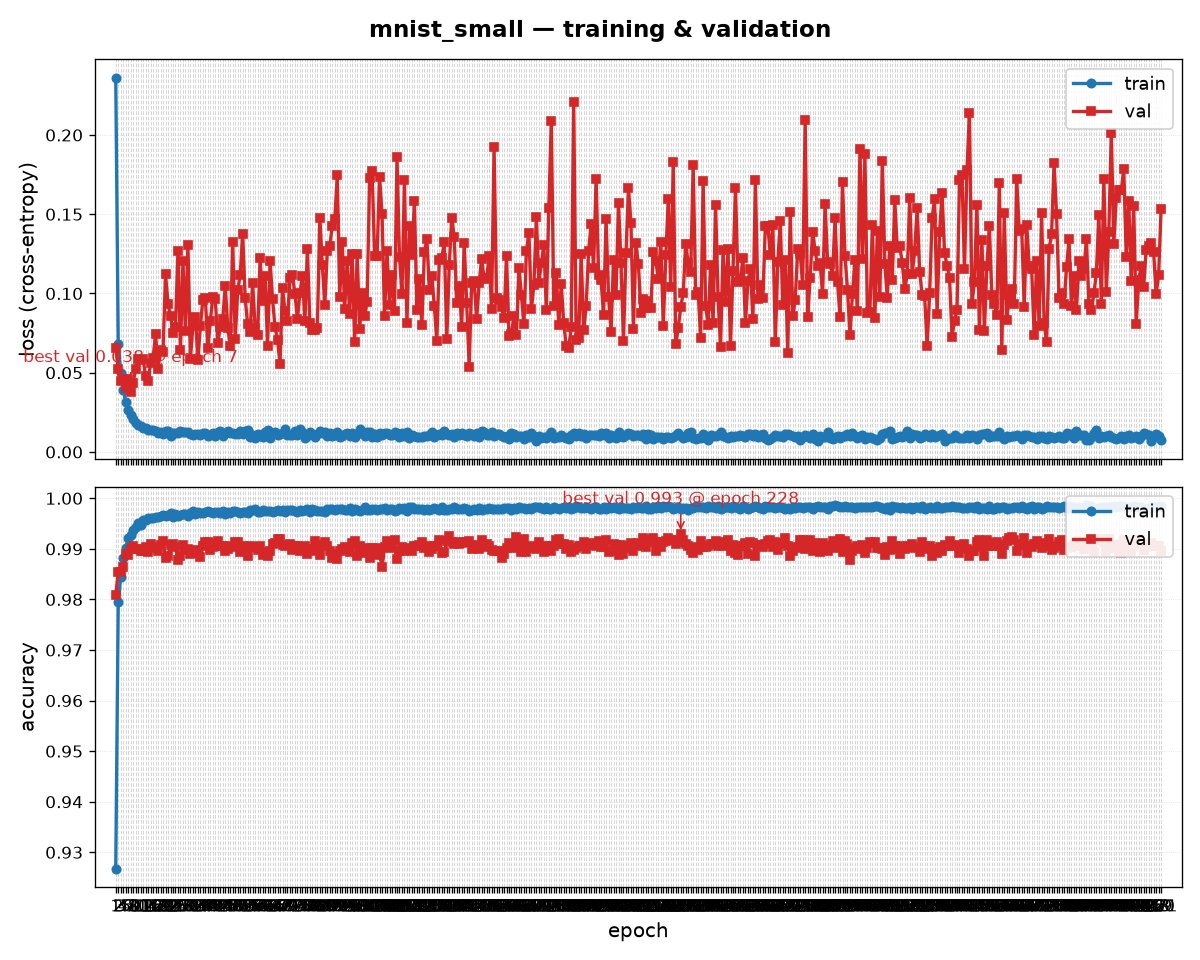
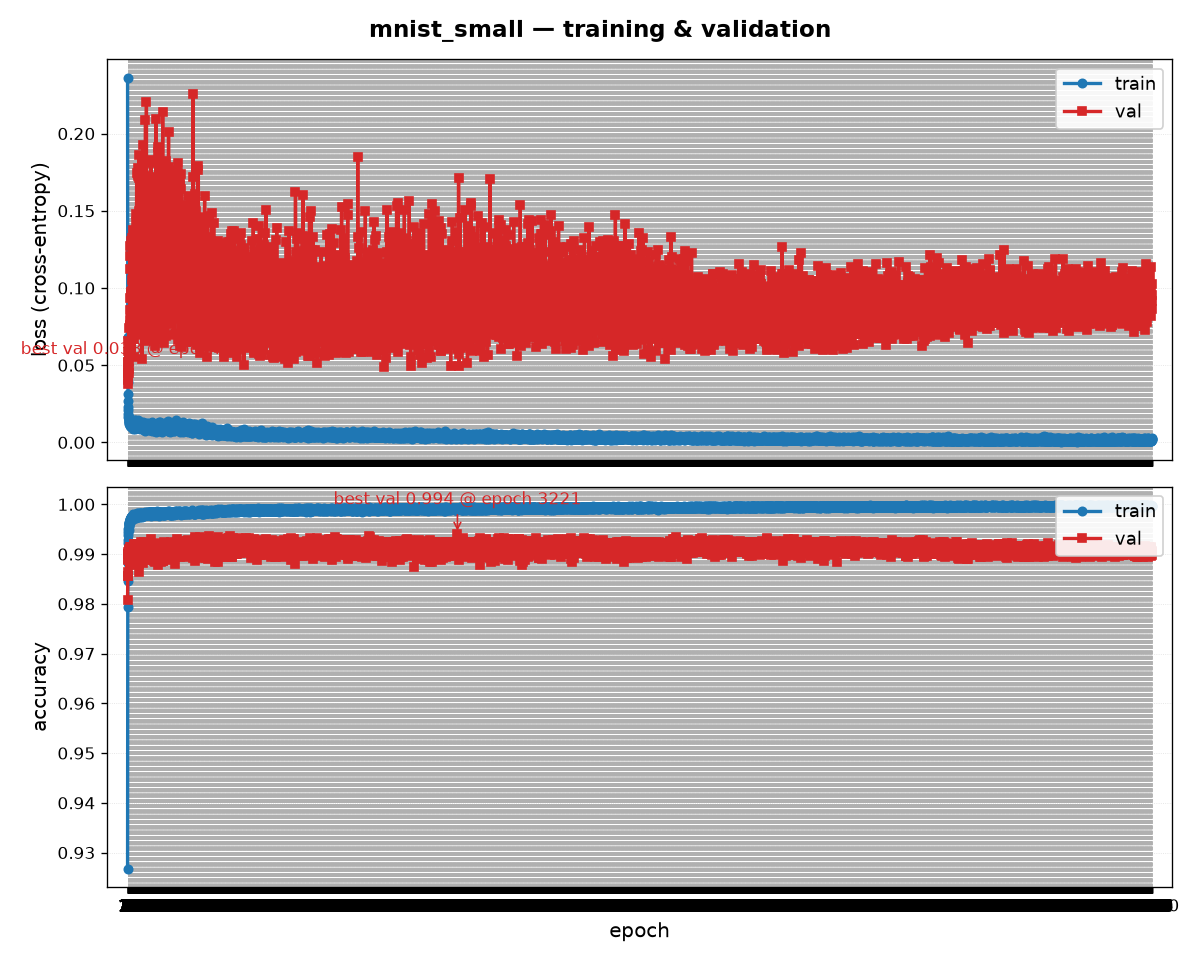
baby steps

diff --git a/research/claude-cars-dataset-research.md b/research/claude-cars-dataset-research.md
@@ -1,0 +1,97 @@
+# Car Image Datasets for Make/Model/Year Classification: A Deep-Dive Evaluation
+
+## TL;DR
+- **No single public dataset cleanly solves "recent make + model + exact year."** For research/hobby use, the best combination is **Stanford Cars (Cars196)** as a clean benchmark plus **VMMRdb** (US, 1950–2016) and **CompCars** (Chinese market) for scale and year coverage; for recent vehicles (2016→2026) you will almost certainly need to build a custom dataset by scraping car-listing sites and using **NHTSA vPIC** for the make/model/year taxonomy.
+- **True exact-year labels are rare and visually hard.** Most datasets label a "year" that really means a generation/facelift window; adjacent model years of the same generation are frequently visually identical, so exact-year prediction is often ill-posed. Datasets with genuine year/generation labels: Stanford Cars, CompCars, VMMRdb, BoxCars116k, DVM-CAR, BRCars.
+- **Licensing is the key commercial filter.** Stanford Cars, CompCars, DVM-CAR (CC BY-NC), and BoxCars116k (CC BY-NC-ND) are research/non-commercial only. For commercial use, build your own dataset (respecting site ToS and image copyright) or use permissively-licensed checkpoints, and lean on NHTSA vPIC (public-domain US government data) for the label taxonomy.
+
+## Key Findings
+
+### The core tension: "year" is the hard part
+Make and model recognition is a mature, largely solved fine-grained classification problem (top models reach ~97% on Stanford Cars). But the user's requirement for **year** is where both the datasets and the underlying visual signal break down:
+- Automakers keep a body/design essentially fixed across a generation (typically 6–8 years) with a mid-cycle "facelift" (usually around year 3–4, e.g., BMW's "LCI"). Within a generation, consecutive model years are often visually indistinguishable without a VIN or registration record.
+- Consequently, most "year" labels in car datasets are best interpreted as **generation/facelift** labels, not exact calendar-year labels. Stanford Cars, for example, pins many classes to a single year (e.g., "2012 BMW M3 coupe") even though that generation spans multiple years.
+- Practical implication: treat "year" as **generation** (or a year-range) rather than exact year, and expect exact-year accuracy to have an intrinsic ceiling below make/model accuracy. Commercial photo-ID services (e.g., Car Reveal) explicitly caveat that "an exact model year usually requires a VIN or registration record."
+
+### Datasets that actually carry year/generation labels
+- **Stanford Cars (Cars196):** make+model+year in the class string, but only ~2012-era and older.
+- **CompCars:** hierarchical make → model → year of manufacture (the classification subset spans roughly 2005–2016).
+- **VMMRdb:** make+model+production year, models 1950–2016.
+- **BoxCars116k:** make+model+submodel+model year (surveillance viewpoints).
+- **DVM-CAR:** brand-model-year-color folder structure, UK market ~2000–2020.
+- **BRCars:** make → model → year → instance hierarchy, Brazilian market.
+
+### Availability alert: Stanford Cars original link is dead
+The original Stanford host (`ai.stanford.edu/~jkrause/cars/`) is **down**, and `torchvision.datasets.StanfordCars` no longer downloads it — the class remains but raises `"The original URL is broken so the StanfordCars dataset cannot be downloaded anymore,"` and the `download=True` flag is a no-op kept only for backward compatibility. The data survives via mirrors: **Kaggle** (jutrera, "Stanford Car Dataset by classes folder"), **Hugging Face** (`tanganke/stanford_cars`, `HuggingFaceM4/Stanford-Cars`, `Multimodal-Fatima/StanfordCars_train`), and **Roboflow Universe**.
+
+## Details
+
+### Comparison table
+
+| Dataset | # Images | # Classes | Granularity | Vehicle years | Image source / viewpoints | Extra annotations | License | Availability | Known issues |
+|---|---|---|---|---|---|---|---|---|---|
+| **Stanford Cars (Cars196)** | 16,185 (8,144 train / 8,041 test) | 196 | Make+Model+Year | ~1991–2012 (mostly 2012) | Web photos (auctions, dealers, classifieds); multi-view | Bounding boxes | Non-commercial research (described variously as "non-commercial research" or "unknown") | Original site down; mirrors on Kaggle/HF/Roboflow | Old vehicles; small; a known test-label duplication error; near-saturated |
+| **CompCars** | 208,826 total (136,726 web + 44,481 surveillance) | 1,716 models / 163 makes (431-model classification subset) | Make+Model+Year | ~2005–2016 | Web + surveillance; front/rear/side/interior | Bounding boxes, viewpoint, car parts (~27k), attributes | Research/academic only | Available on request from CUHK | Chinese-market skew; biased default train/test split |
+| **VMMRdb** | 291,752 | 9,170 | Make+Model+Year | 1950–2016 | Craigslist user photos (US); varied devices/angles | User-added boxes on subsets | Research (varies) | GitHub (faezetta/VMMRdb), Kaggle mirror | Severe class imbalance, label noise, long tail |
+| **BoxCars116k** | 116,286 (27,496 vehicles) | 693 fine-grained | Make+Model+Submodel+Year | modern (surveillance era) | Traffic surveillance cameras; high-elevation angles | 3D bounding boxes, foreground masks, viewpoint | CC BY-NC-ND 4.0 | medusa.fit.vutbr.cz download; GitHub code | Surveillance-only viewpoints; small images; no interior |
+| **DVM-CAR (2.0)** | 1,451,784 | 899 models | Brand-Model-Year-Color | ~2000–2020 (UK) | UK classified ads; 8 viewpoints; backgrounds removed | Sales/price/trim tables, body type | CC BY-NC | deepvisualmarketing.github.io; Figshare DOI 10.6084/m9.figshare.19586296 | Non-commercial; UK-market; backgrounds stripped |
+| **BRCars** | ~300k (427-model); 212,609 (196-model set) | 427 / 196 | Make→Model→Year→Instance | Brazilian market (recent) | Brazilian ad site; exterior + interior; unstandardized perspective | Perspective labels (CLIP-assisted) | Research | Via authors / SIBGRAPI 2021 paper | Imbalanced; interior/exterior mixed; noise (keys, docs) |
+| **VeRi-776** | ~50k (49,357) | 776 identities | Vehicle ID (+ type, color, brand attrs) | modern | 20 surveillance cameras | BBoxes, color, type, plate, spatio-temporal | Research | GitHub (VehicleReId/VeRi) | Re-ID, not MMY; limited model labels |
+| **VehicleID (PKU)** | 221,763 | 26,267 identities (~10k model-labeled) | Vehicle ID (+ partial model) | modern | Surveillance; front/rear only | Model labels on subset | Research | Peking University | Re-ID focus; only front/rear views |
+| **The Car Connection (Gervais)** | ~60,000 | make/model/year (US) | Make+Model+Year (+specs) | broad US market | thecarconnection.com press photos | price, HP, body style, specs | Scraped (ToS/copyright caution) | GitHub + Kaggle mirror | Single-site scrape; duplicates; studio-style images |
+| **kingjosephm vehicle_make_model** | ~700k | 574 make-models (8,274 make-model-category-year combos) | Make+Model+Category+Year | US market | Google Images scrape | none | Scraped (ToS/copyright caution) | GitHub | Google-scraped label noise; drops exotics/EV startups |
+| **Indian Vehicle datasets (DataCluster etc.)** | 35k–50k+ | vehicle type mostly | Type (not MMY) | recent | Street/mobile India | boxes | Mixed | Kaggle/GitHub | Not make/model/year |
+
+### Regional and newer datasets
+- **CompCars** (China) remains the largest well-annotated make/model/year web dataset outside the US.
+- **DVM-CAR** (UK) has the largest image count of any car MMY dataset and is best for recent (up to ~2020) European-market vehicles, but is CC BY-NC.
+- **BRCars** (Brazil) is notable for including interior images and being drawn from ad listings, mirroring real-world "messy" data.
+- **MPF-Cars** (335,011 images, 2,019 models, 180 manufacturers) and **DeepCar 5.0** (headlight/grille/bumper analysis for recognition) are recent additions cited in the 2023–2026 literature.
+- **Car-333** (157,023 training images, 333 categories) is an older web-scraped alternative.
+- **Indian** datasets (DataCluster Labs Indian Vehicle Dataset ~35–50k; Roboflow "Indian Vehicle Classification"; Bharatiya Vehicle Dataset) are mostly vehicle *type* (car/bike/truck/rickshaw), not make/model/year — of limited use for fine-grained MMY.
+- **Thai** datasets (VTID2 ~4,356 images of 5 vehicle types; VMID ~2,072 logo images of 11 brands) cover type and make logos, not model/year.
+- **AIDOVECL** is an AI-generated (outpainted) vehicle dataset on Hugging Face (CC BY-4.0, DOI 10.57967/hf/8444) for eye-level classification/localization.
+- **Roboflow Universe** hosts several community "Car Make Model Year" datasets (e.g., Senior Design's 196-class ~10k-image set, CC BY 4.0) that mirror or extend Stanford Cars.
+
+### Vehicle taxonomy / API sources for labels
+- **NHTSA vPIC** (`vpic.nhtsa.dot.gov/api`): free, public US government API providing all makes, models by year, vehicle type, and VIN decoding for **model years 1981 and forward**. It is available 24/7, free, and requires no registration (only an automated rate limit). Also downloadable as standalone databases. This is the canonical source for a US make/model/year label taxonomy and for normalizing scraped labels. It is public-domain US government data — usable commercially.
+- Commercial VIN/taxonomy APIs and marketplace scrapers (Apify actors for Autotrader/cars.com/CarGurus, etc.) exist but carry ToS and cost considerations.
+
+### Scraping listing sites: legal/ToS considerations
+- Used-car marketplaces (Autotrader US/UK, cars.com, CarGurus, Craigslist) provide make/model/year-labeled images from dealer/private listings and are the practical route to recent vehicles.
+- Legality is nuanced: scraping publicly available, non-personal data is generally treated as permissible in the US (following the *hiQ v. LinkedIn* line of cases), but **each site's Terms of Service typically prohibit automated scraping**, the images are copyrighted by the lister/photographer, and personal data (seller contact info) must be avoided.
+- Existing scraped datasets (The Car Connection; kingjosephm's ~700k Google-scraped set) exist as precedent but redistribute copyrighted images and are best treated as research-only.
+- Safer options: (a) scrape only labels + your own captured images; (b) use datasets whose licenses permit your use; (c) obtain data via official APIs/partnerships; (d) get legal review before any commercial deployment.
+
+### State-of-the-art baselines and pretrained checkpoints
+- **Stanford Cars top-1 accuracy** now sits around **96–97%** and is effectively near-saturated. The best well-documented single-model result is **CMAL-Net with a TResNet-L backbone at 97.1%** (Liu et al., *Pattern Recognition* vol. 140, art. 109550, 2023; the same method scores 94.9% with a ResNet-50 backbone). Strong "plain" fine-tunes land ~94–96%: DenseNet-161 94.6%, EfficientNet-B7 94.7%, TResNet-L 96.0%, TransFG/ViT ~94.8%, API-Net and DCAL ~95.3%. Claims of 99%+ are outliers and should be treated with caution.
+- **CompCars** fine-grained accuracy exceeds 90% on the biased default split but drops to a realistic **~61%** (ResNet-50) on the corrected re-split of Buzzelli & Segantin (*Sensors* 2021) — a caution about over-optimistic benchmark numbers.
+- **VMMRdb-3036** (make+model+year, 3,036 classes): ResNet-50 achieves **51.76% top-1 / 92.90% top-5** — a realistic picture of how hard fine-grained year-level classification is at scale.
+- **Pretrained checkpoints on Hugging Face:** `therealcyberlord/stanford-car-vit-patch16` (ViT, ~86% on the Stanford Cars test split, Apache-2.0) and `Jordo23/vehicle-classifier` (EfficientNet-B4, 8,949 make/model/year classes trained on VMMRdb, MIT license — explicitly free for commercial use). Both are good fine-tuning starting points; the MIT-licensed one is the more commercially safe base.
+
+## Recommendations
+
+### Stage 1 — Establish a baseline (research/hobby)
+1. Start with **Stanford Cars** (Kaggle or Hugging Face mirror) to validate your pipeline and get a make+model+year model on a clean 196-class benchmark. Fine-tune a strong ImageNet/CLIP backbone (ViT-B/16, ConvNeXt, or EfficientNet); expect ~90–96% top-1. Warm-start from `therealcyberlord/stanford-car-vit-patch16`.
+2. Add **VMMRdb** for US coverage and far more classes/years (1950–2016). Prune long-tail classes (<50–100 images) and use stratified sampling to combat the severe imbalance. `Jordo23/vehicle-classifier` (VMMRdb-trained, MIT) is a strong checkpoint to fine-tune from.
+
+### Stage 2 — Scale and add recency
+3. For **recent (2016→2026) vehicles**, no benchmark suffices — build a custom set. Enumerate the label space with **NHTSA vPIC** (add European/Asian taxonomies as needed), then collect images per make/model/year. For non-US recency, **DVM-CAR** (up to ~2020, UK) and **CompCars/BRCars** extend coverage — but respect their non-commercial licenses.
+4. Treat "year" as **generation/facelift** buckets, not exact years. Group model years within a generation unless you have evidence they're visually separable; expose a year-range in the output. Add a VIN/registration fallback where exact-year output is required.
+
+### Stage 3 — Commercial deployment
+5. **Do not ship a model trained on non-commercial data** (Stanford Cars, CompCars, DVM-CAR, BoxCars) in a commercial product without clearing rights. Instead: (a) build a proprietary dataset from licensed/owned imagery or ToS-cleared sources; (b) use **vPIC** (public domain) for labels; (c) base models on permissive checkpoints (e.g., the MIT-licensed `Jordo23` model); (d) get legal review of any scraping.
+6. Budget for continuous data refresh: new model years appear annually and facelifts shift visual features, so plan a recurring scrape/label/retrain loop.
+
+### Benchmarks/thresholds that change the plan
+- If **make+model** (not year) is acceptable → Stanford Cars + VMMRdb alone likely suffice; skip custom scraping.
+- If you need **exact year** and accuracy stalls well below make/model accuracy → that is expected (cf. VMMRdb-3036's 51.8% top-1); fall back to generation labels or add VIN/metadata.
+- If **commercial** → licensing, not accuracy, is the binding constraint; prioritize vPIC + owned/licensed imagery from day one.
+
+## Caveats
+- **"Year" ≠ exact year in most datasets.** Labels usually encode a representative year or a generation; adjacent same-generation years are often visually identical. Manage expectations accordingly.
+- **Benchmark accuracy is optimistic.** CompCars' 90%+ collapses to ~61% on a realistic re-split; Stanford Cars is near-saturated and small, so its high numbers won't transfer to messy real-world (surveillance, phone) images or to classes/years absent from training.
+- **Licensing is often ambiguous or restrictive.** Stanford Cars' license is variously described as "non-commercial research" or "unknown"; CompCars, DVM-CAR (CC BY-NC), and BoxCars (CC BY-NC-ND) are clearly non-commercial. Roboflow/Kaggle re-hosts sometimes assign CC BY 4.0 to derivatives, but the underlying images may carry different rights.
+- **Scraping is legally gray.** Public-data scraping is often defensible, but site ToS commonly forbid it and images are copyrighted; avoid personal data and obtain legal advice for commercial use.
+- **Regional coverage is uneven.** US (VMMRdb), China (CompCars), UK (DVM-CAR), Brazil (BRCars) are covered; India/SE-Asia datasets are mostly vehicle-type, not MMY. A globally robust classifier requires combining sources and normalizing overlapping make/model taxonomies.
+- **Figures vary across sources.** CompCars image/model counts, VeRi image totals, and VMMRdb subset sizes differ slightly between papers due to different subsets/versions; where sources conflicted, the most commonly cited values are reported here.
